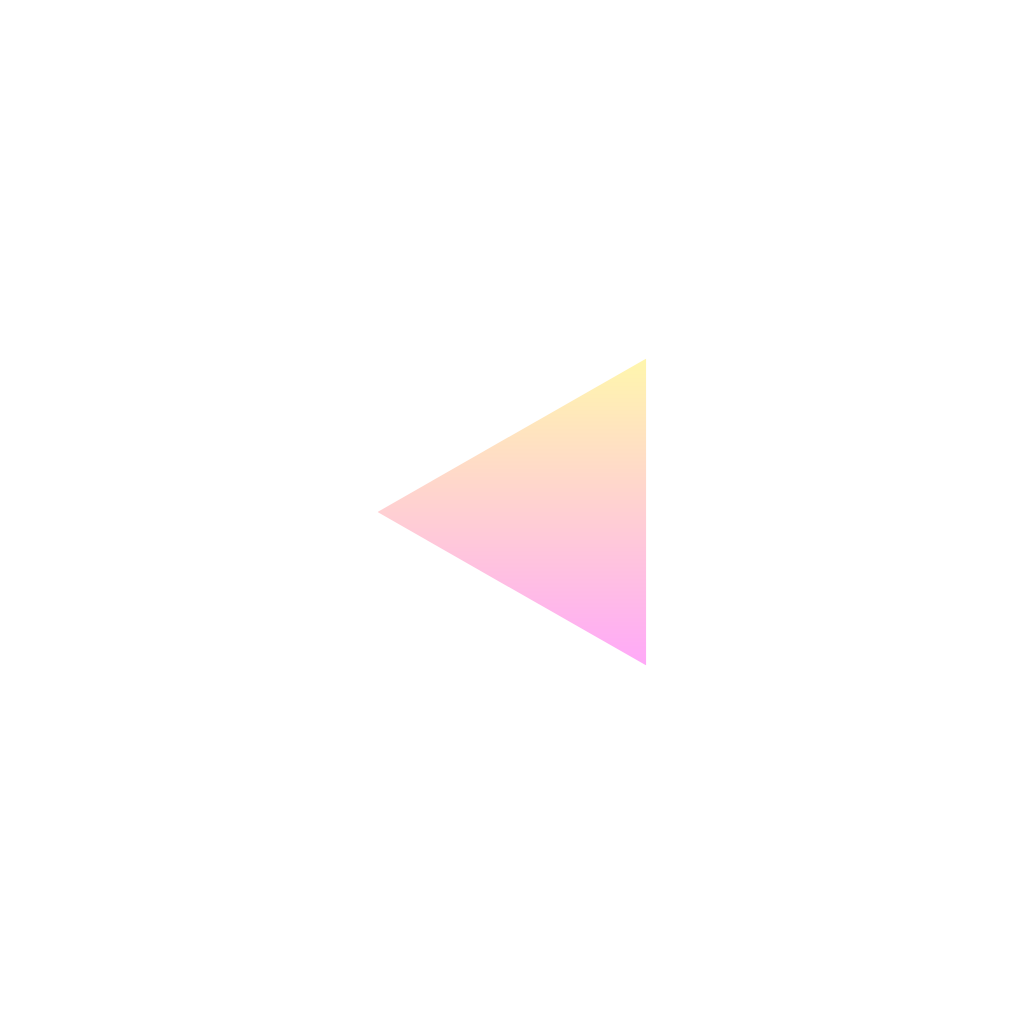
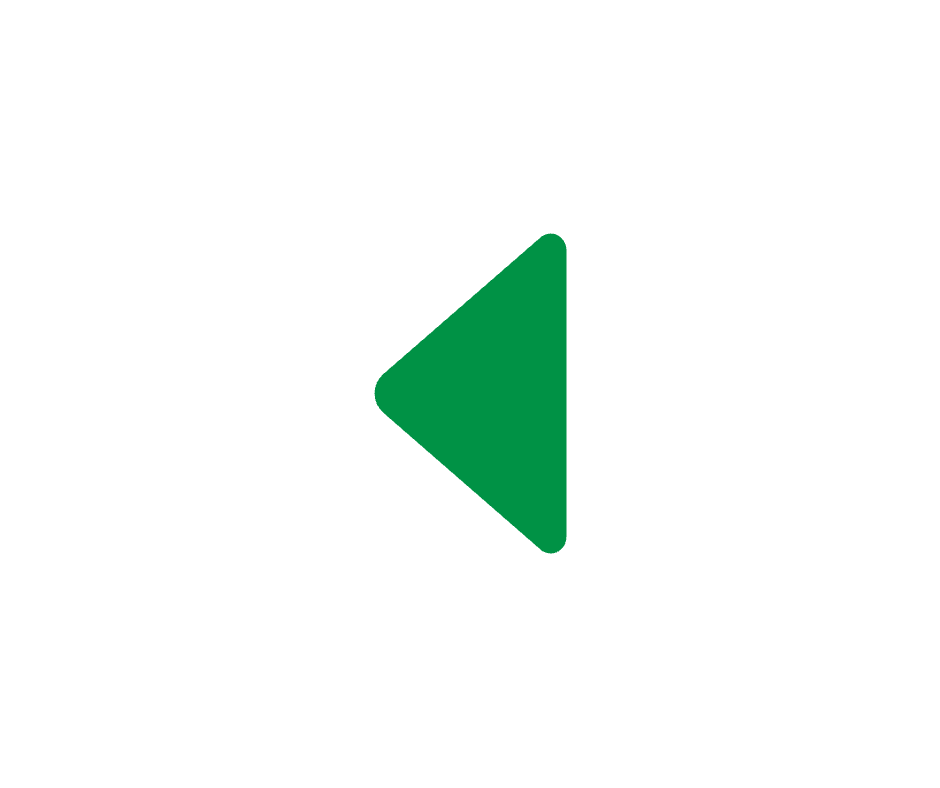
change image slide buttons, change backgroudn color

Changed region(s): [[0.3702, 0.3046, 0.6479, 0.7005]]

diff --git a/styles.css b/styles.css
@@ -11,8 +11,7 @@
     height: 100vh;
     width: 100vw;
     
-    background-color: #FAACA8;
-    background-image: linear-gradient(19deg, #FAACA8 0%, #DDD6F3 100%);
+    
     
     background-repeat: no-repeat;
     background-size: 100vw 100vh;
@@ -38,17 +37,17 @@
 }
 
 #submit {
-    font-size: 4rem;
+    font-size: 3rem;
     
     background-color: white;
      display: flex;
      justify-content: flex-end;
      align-content: flex-end;
      
-     color: #FAACA8;
+     color: black;
      padding: 10px;
-     border: #FAACA8 5px solid;
-     border-radius: 10px;
+     border: black 5px solid;
+     border-radius: 20px;
 }
 
 .searchArea {
@@ -133,7 +132,7 @@ p {
 
 #contactInfo > div {
     color: white;
-    font-size: 2rem;
+    font-size: 3rem;
 }
 
 .high {
@@ -181,8 +180,8 @@ position: absolute;
   z-index: 2;
   background: none;
   border: none;
-  height: 5vh;
-  width: 3vw;
+  height: 10vh;
+  width: 6vw;
   top: 50%;
   transform: translateY(-50%);
   color:rgba(255, 255, 255, 0.5);
